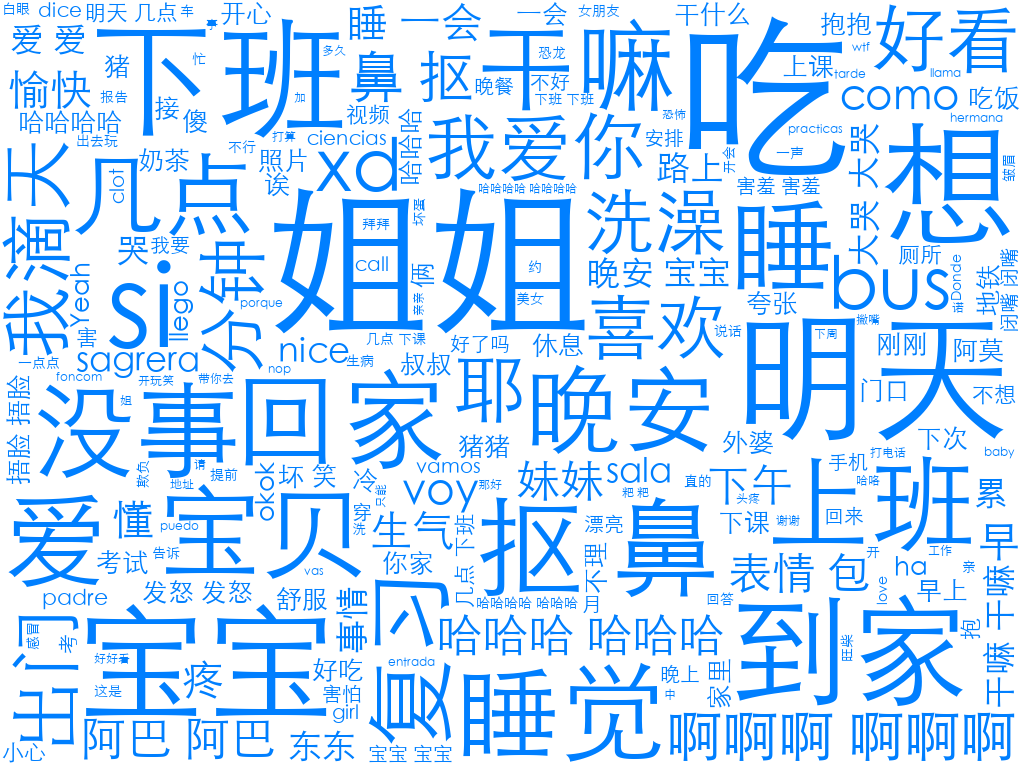
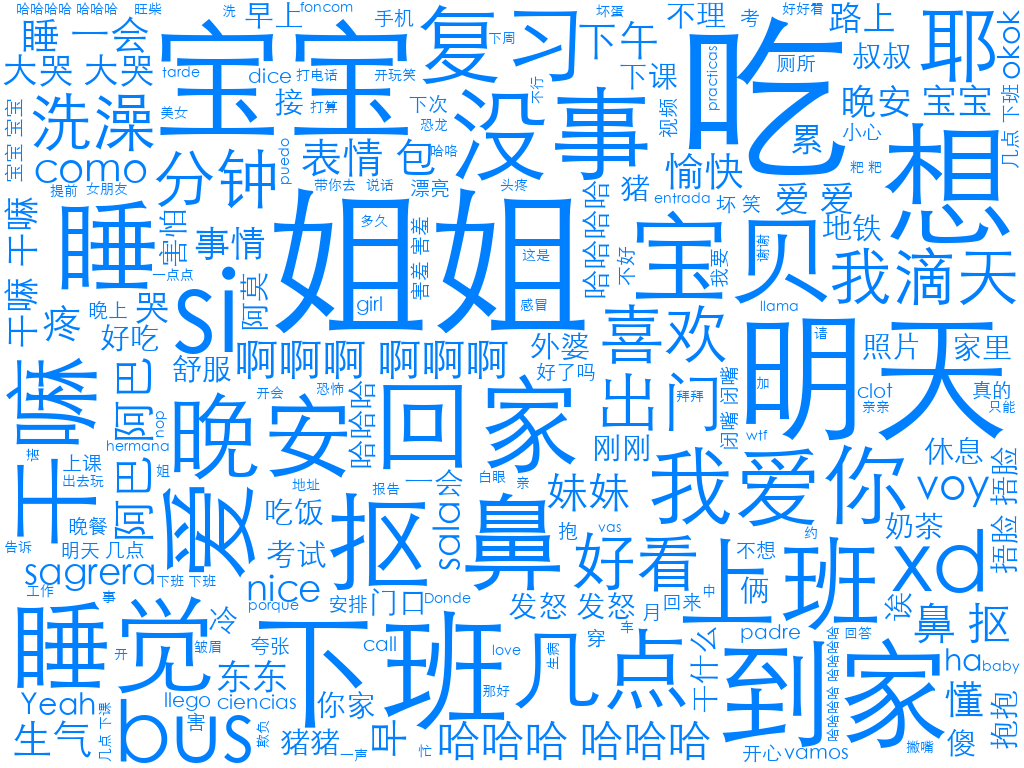
update

diff --git a/wordcloud_hui.py b/wordcloud_hui.py
@@ -38,7 +38,7 @@ with open(stopwords_path, 'r', encoding='utf-8') as f:
 hui_words = jieba.cut(hui_text)
 
 # Define wordCloud shapes
-mask_image_path = "wordCloud_content/heart.jpg" 
+mask_image_path = "wordCloud_content/pink.jpg" 
 mask_image = np.array(Image.open(mask_image_path))
 img_colors = ImageColorGenerator(mask_image) # type: ignore
 

diff --git a/README.md b/README.md
@@ -1,10 +1,11 @@
 This repository contains visualizations and analysis figures generated from chat data. The figures include word clouds, heatmaps, and top word bar charts for two users, Bao and Hui, based on chat logs since March 15, 2023.
 
-Repository Structure
-wordCloud_content: Folder containing text files used for generating word clouds.
-chat_month.py: Python script for processing chat data since March 15, 2023.
-heatmap.py: Python script for generating heatmaps.
-top_words.py: Python script for creating top word bar charts.
-wordcloud.py: Python script for creating word clouds.
-utf8.csv: UTF-8 encoded CSV files of all WeChat chat data (starting from the first message requested through a friend request).
-蒋宝宝.html: utf8.csv HTML file presented in a visual report.
+**Repository Structure
+
+- wordCloud_content: Folder containing text files used for generating word clouds.
+- chat_month.py: Python script for processing chat data since March 15, 2023.
+- heatmap.py: Python script for generating heatmaps.
+- top_words.py: Python script for creating top word bar charts.
+- wordcloud.py: Python script for creating word clouds.
+- utf8.csv: UTF-8 encoded CSV files of all WeChat chat data (starting from the first message requested through a friend request).
+- 蒋宝宝.html: utf8.csv HTML file presented in a visual report.
